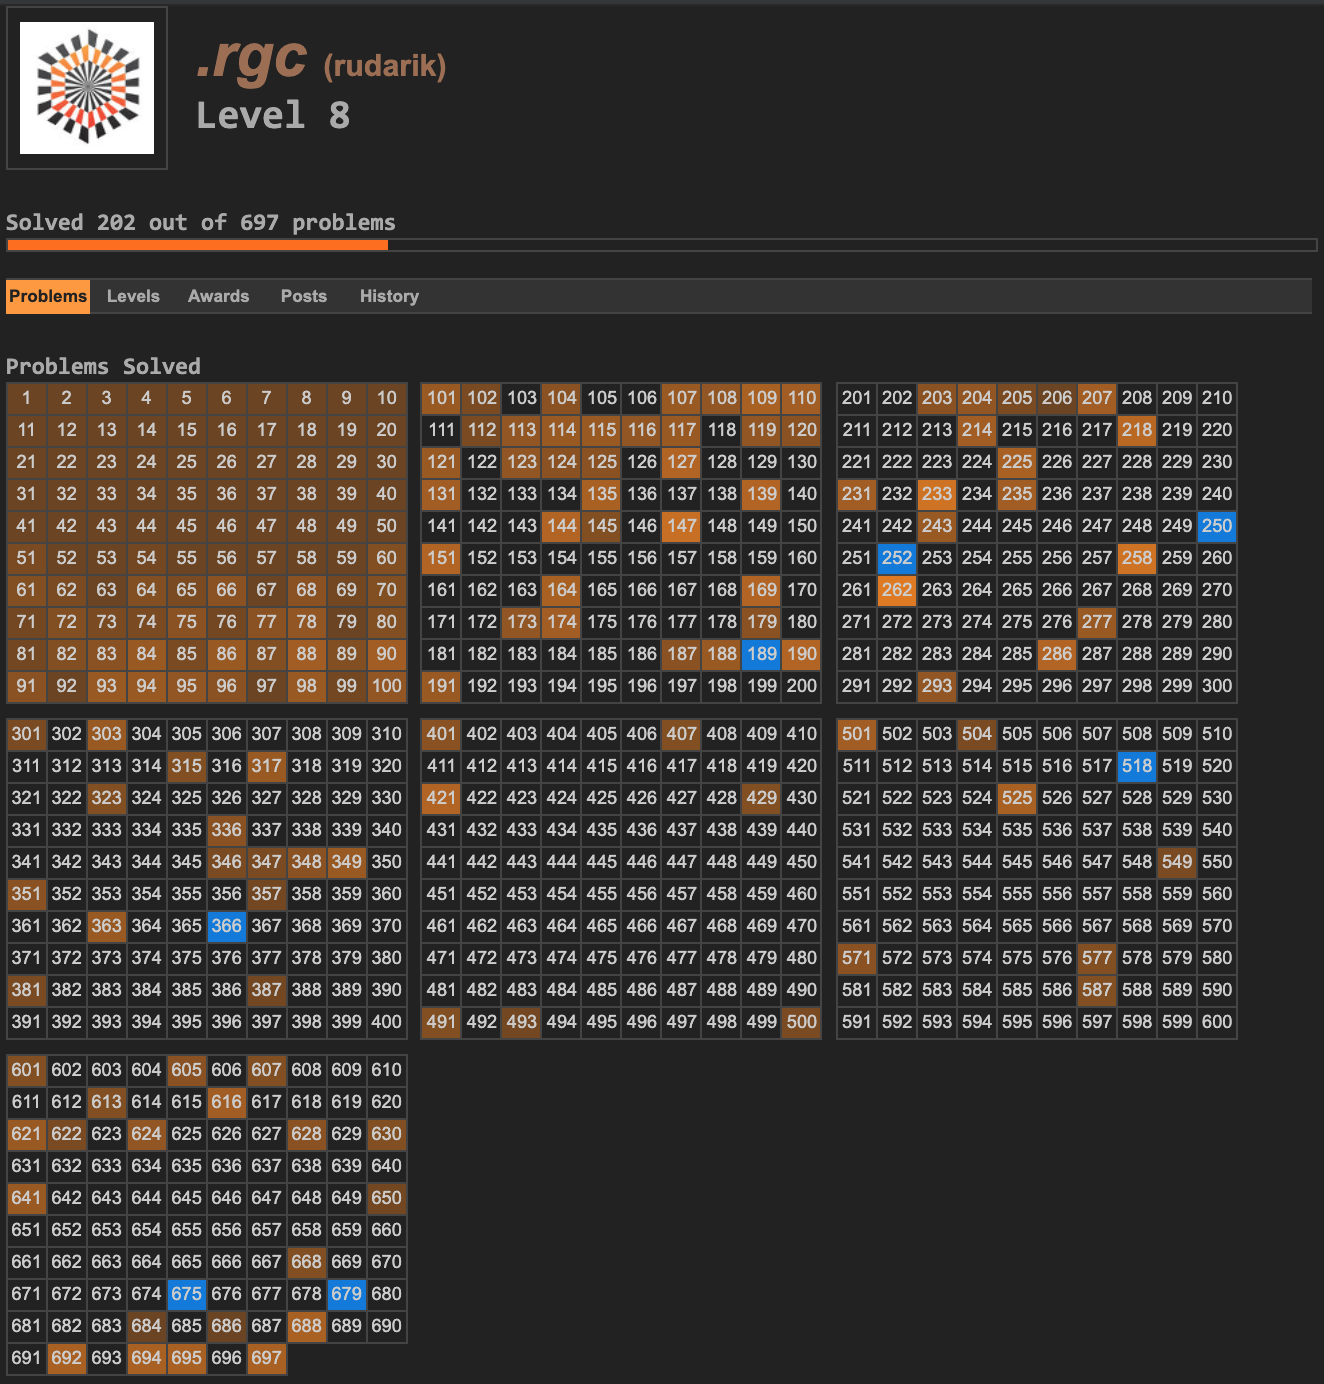
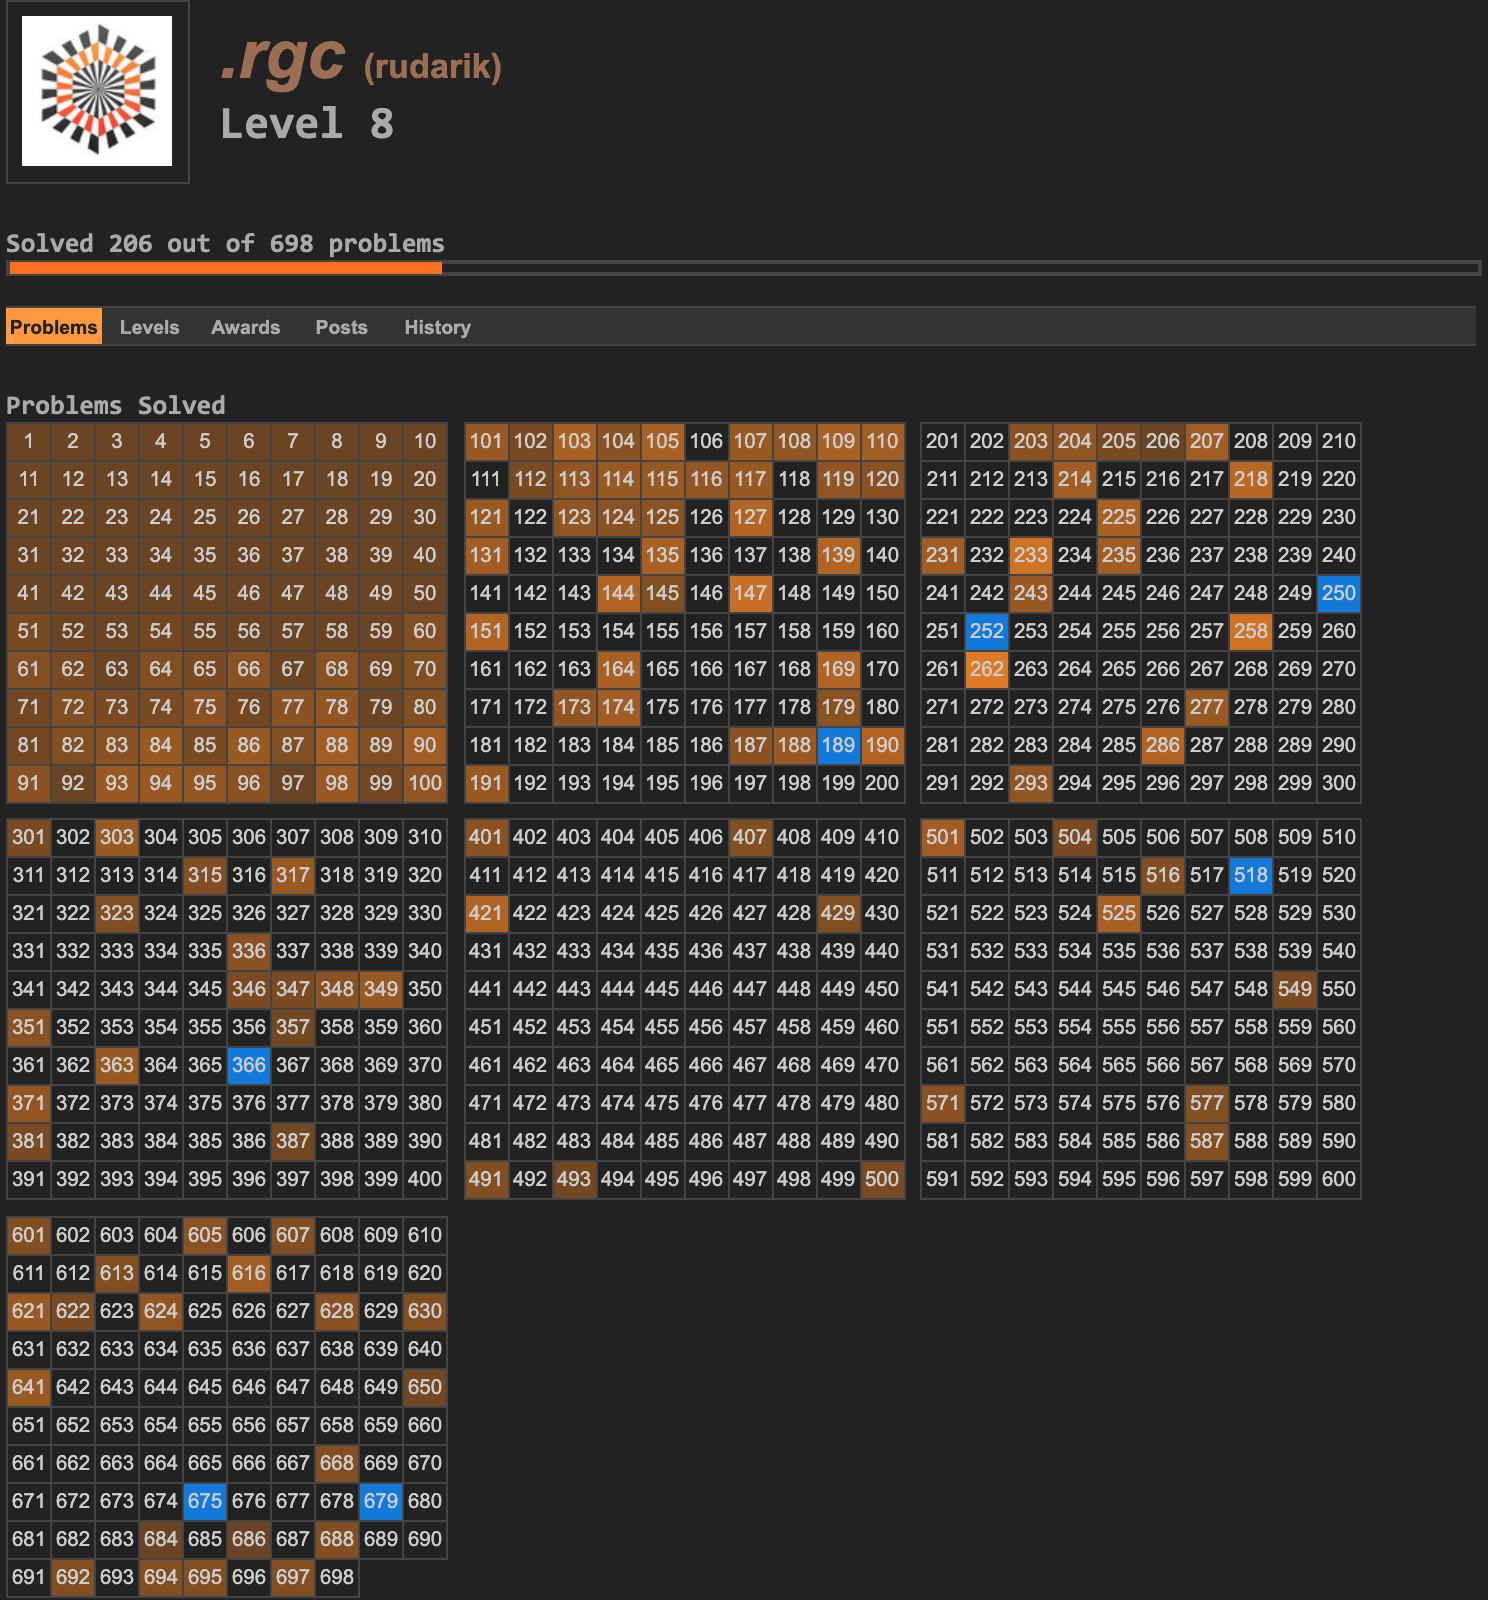
Solved 516

Changed region(s): [[0.0, 0.0, 1.0, 1.0]]

diff --git a/README.md b/README.md
@@ -10,10 +10,10 @@ My current progress:
 ![](rudarik_progress.png)
 
 * [Partitions](https://en.wikipedia.org/wiki/Partition_(number_theory))
-Problem 76: "Counting Summations", Problem 77: "Prime summations", Problem 78: "Coin partitions". 
+Problem 76: "Counting Summations", Problem 77: "Prime summations", Problem 78: "Coin partitions"
 
 * [Totient Function](https://en.wikipedia.org/wiki/Euler%27s_totient_function)
-Problems 69: "Totient maximum", Problem 70: "Totient permutation", Problem 214: "Totient chains", Problem 243: "Resilience", Problem 351: "Hexagonal orchards"
+Problems 69: "Totient maximum", Problem 70: "Totient permutation", Problem 214: "Totient chains", Problem 243: "Resilience", Problem 351: "Hexagonal orchards", Problem 516: "5-smooth totients"
 
 * [Dijkstra's Algorithm](https://en.wikipedia.org/wiki/Dijkstra%27s_algorithm)
 Problem 83: "Path sum, four ways" 
